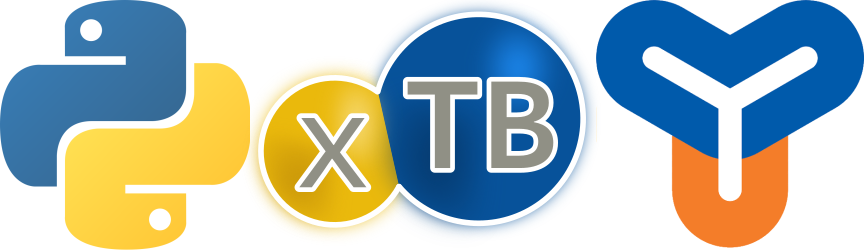
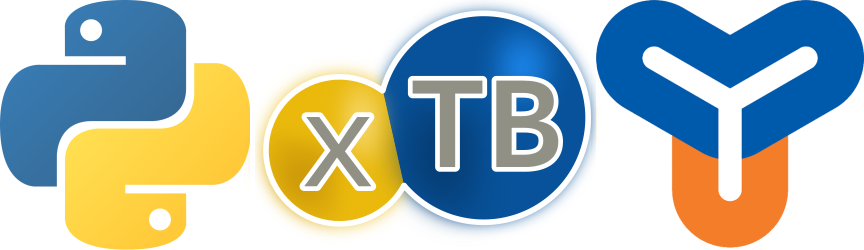
new post

Changed region(s): [[0.2812, 0.028, 0.6875, 0.924]]

diff --git a/_posts/2021-04-04-xtb.md b/_posts/2021-04-04-xtb.md
@@ -4,7 +4,7 @@ title: PyFREQ for your xTB hessians
 ---
 
 {:refdef: style="text-align: center;"}
-![Pika]({{ site.url }}/GayMePy/images/xtb.png "PyMOL + xTB + PyMOL = Powerpuff Py"){:height="40%" width="40%" .center-image}
+![Pika]({{ site.url }}/GayMePy/images/xtb.png "PyMOL + xTB + PyMOL = Powerpuff Py"){:height="60%" width="60%" .center-image}
 {: refdef}
 
 Konnichiwa minasan! Salut tout le monde! Olá pessoal! Hi everybody! Well, today is a very special day for those who observe Easter. So, to those of you, I hope you all have a nice and wonderful Easter full of its spiritual meaning. I'm not catholic, but I know resurrection plays a deep role in the catholic heart, and quite frankly speaking, this is what we all need today: to resurrect from our death. You know, this COVID-19 thing put us all down, and we need to find the strength to carry on.
